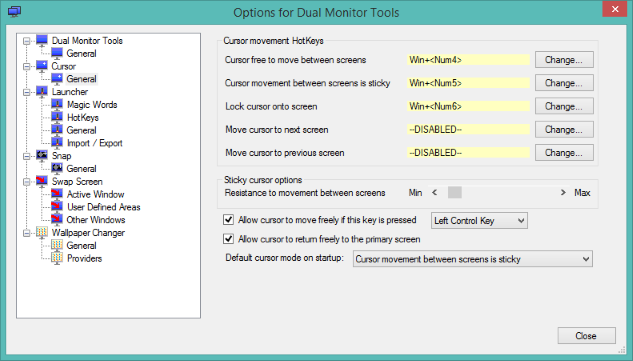
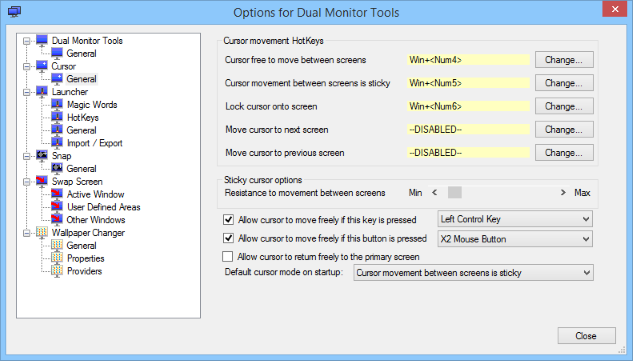
Updates for web site ready for release 2.1
git-svn-id: svn://svn.code.sf.net/p/dualmonitortool/code/trunk@384 fb2ba5e6-08d8-4d4c-bdde-3d14dca355d2

Changed region(s): [[0.0, 0.0, 1.0, 1.0], [0.3302, 0.5789, 0.9605, 0.7922], [0.06, 0.7008, 0.1801, 0.7618]]

diff --git a/Web/dmt_wallpaperchanger.html b/Web/dmt_wallpaperchanger.html
@@ -90,6 +90,12 @@ then the 'Fit' combo box determines any scaling that need to be applied to the i
 
 <p>Initially no providers (of images) are set up, so click on the 'Providers' options to add/edit/delete providers.</p>
 
+<p class="SubHeading">'Properties' options</p>
+
+<img src="Images/dmt_wallpaperchanger_properties.png" alt="Wallpaper Changer properties" />
+
+<p>Once DMT has generated a wallpaper, this will show the source and any available details of the image(s) used.</p>
+
 <p class="SubHeading">'Providers' options</p>
 
 <img src="Images/dmt_wallpaperchanger_providers.png" alt="Wallpaper Changer providers" />
@@ -101,6 +107,8 @@ to be chosen from the provider with a weight of 4 than from the provider with a 
 <p>Three provides are currently supported:</p>
 <ul>
 	<li>Local disk - provides images saved in a folder (with an option to look in sub-folders) on an attached drive.</li>
+	<li>Flickr - provides images from <a href="https://www.flickr.com/" target="_blank">www.flickr.com</a>.
+	You will need an API key from flickr for this.  See below for more details.</li>
 	<li>Unspash - provides images from <a href="http://www.unsplash.com" target="_blank">www.unsplash.com</a>.
 	Please see their <a href="https://unsplash.com/terms" target="_blank">terms and conditions</a> on the use of these images
 	and in particular please note that the usage is restricted to persons who are at least 18 years old.</li>
@@ -108,6 +116,18 @@ to be chosen from the provider with a weight of 4 than from the provider with a 
 </ul>
 
 <p>If you use a provider that takes images from an external source, please respect any terms and conditions they may have.</p>
+
+<p class="SubHeading">Flickr API Key</p>
+
+<p>To download images from Flickr, you will need to obtain an API Key from Flickr.</p>
+
+<p>To obtain the API key, visit <a href="https://www.flickr.com/services/api/misc.api_keys.html" target="_blank">https://www.flickr.com/services/api/misc.api_keys.html</a>
+and click on the "Apply for your key online now" link.  You will need a Flickr or Yahoo account to do this.
+Then click on the "APPLY FOR A NON-COMMERCIAL KEY" button. For the name of the app, enter "DMT" and for the details enter "For use with the Dual Monitor Tools open source application".
+When you have the key, you can select flickr as a provider from DMT's list of providers and paste the key into last field of the dialog:</p>
+
+<img src="Images/dmt_wallpaperchanger_flickr.png" alt="Flickr provider form" />
+
 
 
 </div>
@@ -117,7 +137,7 @@ to be chosen from the provider with a weight of 4 than from the provider with a 
 		<div id="footer-left">
 		</div>
 		<div id="footer-right">
-		last updated 14 Jun 2015
+		last updated 17 Aug 2015
 		</div>
 	</div>
 </div>

diff --git a/Web/dmt_cursor.html b/Web/dmt_cursor.html
@@ -102,6 +102,9 @@ You can adjust the resistance using the <a href="#StickyResistance">Resistance t
 <p>If this is checked, then regardless of mode, you can freely move the cursor between screens while the selected key is pressed.
 Any one of the Control or Shift keys (left or right) may be chosen.</p>
 
+<p class="SubHeading2"><a name="MouseCursor">Allow cursor to move freely if this button is pressed</a></p>
+<p>If this is checked, then regardless of mode, you can freely move the cursor between screens while the selected mouse button is pressed.</p>
+
 <p class="SubHeading2"><a name="PrimaryReturn">Allow cursor to return freely to the primary screen</a></p>
 <p>If this is checked, then regardless of mode, you can freely move the cursor over a screen boundary if the cursor is being moved onto the primary screen.</p>
 
@@ -116,7 +119,7 @@ Any one of the Control or Shift keys (left or right) may be chosen.</p>
 		<div id="footer-left">
 		</div>
 		<div id="footer-right">
-		last updated 14 Jun 2015
+		last updated 17 Aug 2015
 		</div>
 	</div>
 </div>

diff --git a/Web/history.html b/Web/history.html
@@ -54,6 +54,18 @@
 <div id="content">
 
 
+<p class="SubHeading">18 Aug 2015 - release 2.1</p>
+
+<p><b>DMT</b></p>
+<ul>
+	<li>Command line interface added.</li>
+	<li>Crossfade option for changing wallpaper.</li>
+	<li>General options page shows file locations.</li>
+	<li>Option to allow mouse buttons to be used to cross cursor boundaries.</li>
+	<li>Details of source images now displayable.</li>
+	<li>Flickr added as an image provider.</li>
+</ul>
+
 <p class="SubHeading">17 Jun 2015 - release 2.0</p>
 
 <p>New tool DMT provides the functionality previously provided by SwapScreen, 
@@ -289,7 +301,7 @@ DisMon has been dropped for the time being.</p>
 		<div id="footer-left">
 		</div>
 		<div id="footer-right">
-		last updated 17 Jun 2015
+		last updated 17 Aug 2015
 		</div>
 	</div>
 </div>

diff --git a/Web/dmt.html b/Web/dmt.html
@@ -77,6 +77,10 @@ Alternatively, you can right click on the icon to bring up it's context menu.</p
 
 <p class="SubHeading">'General' options</p>
 
+<img src="Images/dmt_general_general.png" alt="general options" />
+
+<p>This provides general options and shows the location of the configuration files that it uses.</p>
+
 <p class="SubHeading2">Start when Windows starts</p>
 
 <p>If you want DMT to start automatically when your computer boots,
@@ -293,7 +297,7 @@ you would add the following command to the batch file:</p>
 		<div id="footer-left">
 		</div>
 		<div id="footer-right">
-		last updated 14 Jul 2015
+		last updated 17 Aug 2015
 		</div>
 	</div>
 </div>

diff --git a/Web/index.html b/Web/index.html
@@ -59,7 +59,7 @@
 
 
 <p class="SubHeading">Current status</p>
-<p>The latest release of Dual Monitor Tools is 2.0 and is available for downloading from
+<p>The latest release of Dual Monitor Tools is 2.1 and is available for downloading from
 <a href="http://sourceforge.net/project/platformdownload.php?group_id=252267">SourceForge</a>.</p>
 
 <p>The major change between this version and the 1.* versions is that the functionality of
@@ -156,7 +156,7 @@ or if you have enough monitors, a combination of these.</p>
 		<div id="footer-left">
 		</div>
 		<div id="footer-right">
-		last updated 13 Jun 2015
+		last updated 17 Aug 2015
 		</div>
 	</div>
 </div>
